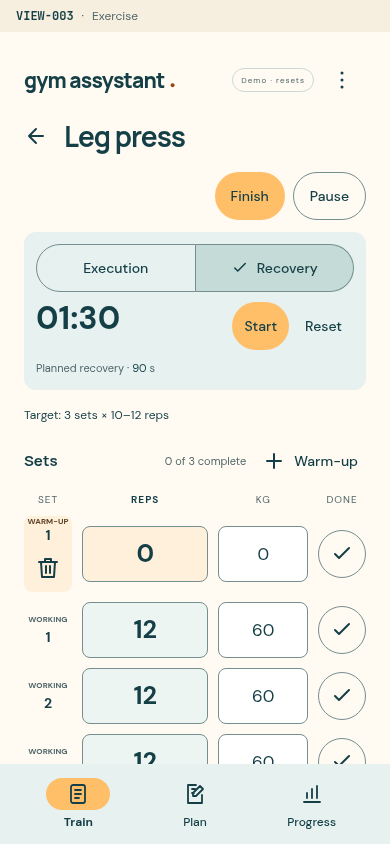
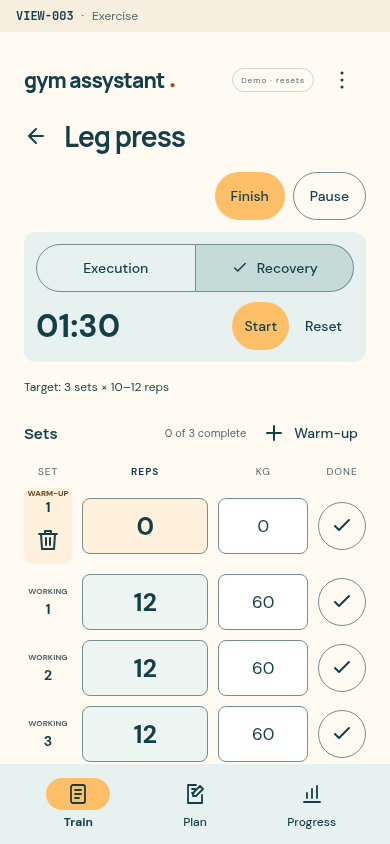
fix(mockup): align timer values and remove duplicate recovery text
Center VIEW-003 digits with timer actions and place completion feedback
below the row. Remove the planned-duration label while retaining prescribed
countdown/reset targets, specification traceability and current previews.

Refs: GYM-012, GYM-021
Validation: full Chromium workflows; both timer modes, expiry and narrow
vertical-center checks; planned duration/snapshot/reset behavior; visual
preview review and documentation links.

diff --git a/prototypes/web/index.html b/prototypes/web/index.html
@@ -20,7 +20,7 @@
 </section>
 <section id="session" data-mockup-ref="VIEW-002" data-mockup-name="Session" data-view hidden data-req="GYM-001 GYM-008 GYM-019"><div class="secondary-heading" data-req="GYM-025"><button class="md-icon-button" id="backProgram" aria-label="Back to Train calendar"><svg class="button-icon" viewBox="0 0 24 24" aria-hidden="true" focusable="false"><path d="M19 12H5m7-7-7 7 7 7"/></svg></button><h2 id="sessionName"></h2></div><p class="muted" id="sessionFocus"></p><div class="session-start" data-req="GYM-017"><div class="session-actions"><button id="startSession" class="md-button md-filled">Start session</button><button id="finishSession" class="md-button md-filled" aria-label="Finish session" hidden>Finish</button><button id="pauseSession" class="md-button md-outlined session-pause" aria-label="Pause session" hidden>Pause</button></div><p id="sessionStatus" class="field-help" role="status">Ready</p></div><p id="attendanceStatus" class="field-help" data-req="GYM-020"></p><div class="section-heading"><h3>Exercises</h3><span id="sessionCount"></span></div><div id="exerciseList"></div><p id="executionOrderStatus" class="sr-only" role="status" data-req="GYM-019"></p></section>
 <section id="exercise" data-mockup-ref="VIEW-003" data-mockup-name="Exercise" data-view hidden data-req="GYM-001 GYM-009"><div class="secondary-heading" data-req="GYM-009"><button class="md-icon-button" id="back" aria-label="Back to session"><svg class="button-icon" viewBox="0 0 24 24" aria-hidden="true" focusable="false"><path d="M19 12H5m7-7-7 7 7 7"/></svg></button><h2 id="exerciseName"></h2></div><div id="exerciseSessionActions" class="exercise-session-actions" data-req="GYM-009 GYM-017" hidden><span id="exerciseSessionStatus" class="field-help" hidden></span><button id="finishExerciseSession" class="md-button md-filled" aria-label="Finish session" hidden>Finish</button><button id="pauseExerciseSession" class="md-button md-outlined session-pause" aria-label="Pause session" hidden>Pause</button></div>
-<div class="timer-panel" data-req="GYM-012"><div class="timer-tabs" role="group" aria-label="Timer type"><button id="executionMode" class="md-segment" aria-pressed="true"><span class="segment-check"><svg class="button-icon" viewBox="0 0 24 24" aria-hidden="true" focusable="false"><path d="m5 12 4 4L19 6"/></svg></span>Execution</button><button id="recoveryMode" class="md-segment" aria-pressed="false"><span class="segment-check"><svg class="button-icon" viewBox="0 0 24 24" aria-hidden="true" focusable="false"><path d="m5 12 4 4L19 6"/></svg></span>Recovery</button></div><div class="timer-display"><output id="timerValue" aria-label="Execution elapsed time" aria-live="off">00:00</output><span id="timerStatus" class="sr-only" role="status">Ready</span></div><p id="recoverySettings" class="field-help" hidden>Planned recovery · <span id="recoverySeconds">90</span> s</p><div class="timer-actions"><button id="timerToggle" class="md-button md-filled">Start</button><button id="timerReset" class="md-button md-text">Reset</button></div><p class="field-help" id="timerContext">For this exercise · manual controls</p></div>
+<div class="timer-panel" data-req="GYM-012"><div class="timer-tabs" role="group" aria-label="Timer type"><button id="executionMode" class="md-segment" aria-pressed="true"><span class="segment-check"><svg class="button-icon" viewBox="0 0 24 24" aria-hidden="true" focusable="false"><path d="m5 12 4 4L19 6"/></svg></span>Execution</button><button id="recoveryMode" class="md-segment" aria-pressed="false"><span class="segment-check"><svg class="button-icon" viewBox="0 0 24 24" aria-hidden="true" focusable="false"><path d="m5 12 4 4L19 6"/></svg></span>Recovery</button></div><div class="timer-display"><output id="timerValue" aria-label="Execution elapsed time" aria-live="off">00:00</output></div><div class="timer-actions"><button id="timerToggle" class="md-button md-filled">Start</button><button id="timerReset" class="md-button md-text">Reset</button></div><span id="timerStatus" class="sr-only" role="status">Ready</span><p class="field-help" id="timerContext"></p></div>
 <p class="prescription" id="prescription" data-req="GYM-008"></p>
 <div class="section-heading set-heading" data-req="GYM-004 GYM-005 GYM-014"><h3>Sets</h3><span id="setCount" aria-live="polite"></span><button id="addWarmup" class="md-button md-text" aria-label="Add warm-up set"><svg class="button-icon" viewBox="0 0 24 24" aria-hidden="true" focusable="false"><path d="M12 5v14M5 12h14"/></svg>Warm-up</button></div>
 <div class="set-labels" data-req="GYM-004 GYM-014"><span>SET</span><span>REPS</span><span>KG</span><span>DONE</span></div><div id="sets" data-req="GYM-004 GYM-005 GYM-014"></div>

diff --git a/prototypes/web/css/style.css b/prototypes/web/css/style.css
@@ -314,14 +314,13 @@ h2, h3, .exercise-card strong { overflow-wrap: anywhere; }
 .exercise-session-actions .md-button { padding-inline: 16px; }
 .exercise-session-actions .field-help { margin: 0; }
 .timer-panel { display: grid; grid-template-columns: minmax(0, 1fr) auto; gap: 10px; padding: 12px; margin-bottom: 16px; }
-.timer-tabs, #recoverySettings, #timerContext { grid-column: 1 / -1; }
+.timer-tabs, #timerContext { grid-column: 1 / -1; }
 .timer-tabs { grid-row: 1; }
-.timer-display { grid-column: 1; grid-row: 2; margin: 0; flex-direction: column; align-items: flex-start; gap: 4px; }
+.timer-display { grid-column: 1; grid-row: 2; margin: 0; align-self: center; flex-direction: column; align-items: flex-start; gap: 0; }
 .timer-actions { grid-column: 2; grid-row: 2; align-items: center; gap: 4px; }
 .timer-actions .md-button { padding-inline: 12px; }
 #timerValue { font-size: 32px; }
-#timerStatus.field-help { font-size: 10px; margin: 0; }
-#recoverySettings { margin: 0; }
+#timerStatus.field-help { grid-column: 1 / -1; font-size: 10px; margin: 0; }
 #timerContext { margin: 0; }
 .prescription { padding: 0; background: none; border-radius: 0; margin: 6px 0 12px; }
 .set-heading { margin: 8px 0; }
@@ -432,7 +431,7 @@ header { position: relative; z-index: 2; padding-bottom: 0; min-height: 48px; }
 .secondary-heading h2 { min-width: 0; flex: 1; }
 .page-heading.secondary-heading { gap: 4px; }
 .page-heading.secondary-heading .save-plan { flex-shrink: 0; }
-.finished-review .set-row input:disabled, .finished-review .seat-input:disabled, .finished-review #recoverySeconds:disabled { border-color: transparent; background: transparent; }
+.finished-review .set-row input:disabled, .finished-review .seat-input:disabled { border-color: transparent; background: transparent; }
 .set-status { display: grid; place-items: center; width: 48px; height: 48px; color: var(--on-surface-variant); font-size: 20px; }
 .set-status.is-complete { color: var(--success); }
 input[type="number"] { appearance: textfield; -moz-appearance: textfield; }

diff --git a/prototypes/web/js/app.js b/prototypes/web/js/app.js
@@ -308,8 +308,6 @@ function renderTimer() {
   byId('timerToggle').hidden = session().state === 'finished';
   byId('timerReset').hidden = session().state === 'finished';
   byId('timerToggle').textContent = running ? 'Pause' : state[mode].elapsed > 0 && !(mode === 'recovery' && seconds === 0) ? 'Resume' : 'Start';
-  byId('recoverySettings').hidden = mode !== 'recovery';
-  byId('recoverySeconds').textContent = state.duration;
   ['execution', 'recovery'].forEach(item => byId(`${item}Mode`).setAttribute('aria-pressed', mode === item));
   const other = mode === 'execution' ? 'recovery' : 'execution';
   byId('timerContext').textContent = session().state === 'paused' ? 'Resume the session to run timers.' : state[other].startedAt !== null ? `${other === 'execution' ? 'Execution' : 'Recovery'} is also running.` : '';

diff --git a/docs/product/traceability.md b/docs/product/traceability.md
@@ -1,8 +1,8 @@
 # Bidirectional traceability
 
-Revision 25. All Android delivery is **not started**. “Covered” below means the disposable mockup meets the acceptance criteria in [spec.md](spec.md), not that the Android product is implemented. Search a requirement ID in source comments or `data-req` attributes to trace code back to scope.
+Revision 26. All Android delivery is **not started**. “Covered” below means the disposable mockup meets the acceptance criteria in [spec.md](spec.md), not that the Android product is implemented. Search a requirement ID in source comments or `data-req` attributes to trace code back to scope.
 
-Revision 25 audits all screens and shared controls under GYM-025, correcting read-only text alignment/wrapping, popup headings and Progress card fit. Revision 24 removes the metric-button checkmark in VIEW-007 under GYM-015, retaining selected fill, heavier text, underline and pressed semantics. Revision 23 adds continuous inspection and explicit temporal zoom/pan to VIEW-007 under GYM-010. Revision 22 refines dropdown presentation under GYM-025 with native-select styling and phone-contained pickers. Revision 21 removes activation shortcuts from VIEW-004 under GYM-026 and requires plan review before confirmed activation. Revision 20 refines the GYM-009 exercise heading in VIEW-003: the exercise name sits beside Back, with session actions and timers below. Revision 19 improves the GYM-010 plot presentation in VIEW-007; the labelled plot, point inspection and dense-date panning are verified in the mockup. Revision 18 fixed the selected-day card dimensions in VIEW-001 under GYM-016. Revision 17 introduced external view references, planned recovery, drag-handle sorting and deliberate plan changes. The reference strip is mockup presentation only; native delivery remains not started.
+Revision 26 aligns VIEW-003 timer digits/actions and removes duplicate planned-recovery text under GYM-012/GYM-021. Revision 25 audits all screens and shared controls under GYM-025, correcting read-only text alignment/wrapping, popup headings and Progress card fit. Revision 24 removes the metric-button checkmark in VIEW-007 under GYM-015, retaining selected fill, heavier text, underline and pressed semantics. Revision 23 adds continuous inspection and explicit temporal zoom/pan to VIEW-007 under GYM-010. Revision 22 refines dropdown presentation under GYM-025 with native-select styling and phone-contained pickers. Revision 21 removes activation shortcuts from VIEW-004 under GYM-026 and requires plan review before confirmed activation. Revision 20 refines the GYM-009 exercise heading in VIEW-003: the exercise name sits beside Back, with session actions and timers below. Revision 19 improves the GYM-010 plot presentation in VIEW-007; the labelled plot, point inspection and dense-date panning are verified in the mockup. Revision 18 fixed the selected-day card dimensions in VIEW-001 under GYM-016. Revision 17 introduced external view references, planned recovery, drag-handle sorting and deliberate plan changes. The reference strip is mockup presentation only; native delivery remains not started.
 
 | Requirement | Source anchors / artifact | Verification | Mockup state |
 | --- | --- | --- | --- |
@@ -17,7 +17,7 @@ Revision 25 audits all screens and shared controls under GYM-025, correcting rea
 | GYM-009 | `index.html`: shared Back/name heading and exercise order; `app.js`: conditional lifecycle row; CSS: heading wrapping, set widths/font sizes | Browser: heading aligned beside Back before timers at 320/390/430px, Ready omits action row, reps first, set log before secondary video; screenshot review | Covered |
 | GYM-010 | `metrics.js`: `series`, `countSets`; `data.js`: historical records/context; `app.js`: `renderProgress`, `selectProgressObservation`, exploration state and chart pointer/keyboard/zoom handlers; `charts.js`: `layout`, `render`; `index.html`: progress/readout/plot; CSS: axes, point targets and internal timeline | Logic: exact expected metrics, comparison filters, gaps, warm-up exclusion, elapsed-date positions, zero-based scale and broken segments; browser: mouse/touch continuous inspection, cancellation, temporal zoom limits/reset and lane panning, keyboard endpoints, retained date/zoom/window across metrics/navigation, exercise reset, fractional values, null/empty history, dense panning/non-overlapping targets, light/dark narrow layouts and unchanged history/attendance/exports | Fictional historical statistics covered; real persistence deferred |
 | GYM-011 | [progression-research.md](../research/progression-research.md) | Literature review: eight original studies/reviews with limitations and proposed/included metrics | Research delivered |
-| GYM-012 | `plan.js`: prescription duration validation/snapshot; `app.js`: planned recovery field and occurrence timer creation; `timers.js`: timer state/actions; `app.js`: `renderTimer`, interval/actions; `index.html`: timer panel | Logic: pause/resume/reset, expiry/background catch-up, independence, planned bounds/legacy default, snapshot retention; browser: saved draft targets, protected versus untouched workouts, read-only execution duration, both timer modes/completion | Covered; native background/alerts deferred |
+| GYM-012 | `plan.js`: prescription duration validation/snapshot; `app.js`: planned recovery field and occurrence timer creation; `timers.js`: timer state/actions; `app.js`: `renderTimer`, interval/actions; `index.html`: timer panel | Logic: pause/resume/reset, expiry/background catch-up, independence, planned bounds/legacy default, snapshot retention; browser: saved draft targets, protected versus untouched workouts, initial countdown/Reset reflect saved recovery without a duplicate label, digit/action vertical alignment including completion, both timer modes/completion | Covered; native background/alerts deferred |
 | GYM-013 | [branding-research.md](../research/branding-research.md); wordmarks/copy in `index.html`, theme in `style.css`, timer copy in `app.js` | Five exercise/motivation sources plus three color/emotion sources; screenshot/copy and color-contrast review | Brand direction delivered and applied |
 | GYM-014 | `app.js`: `setRow`, `renderSets`, add/remove/update/toggle warmups; CSS: labeled warm-up rows; `metrics.js`: exclusion | Browser: shared list, labels, retained reps/weight, add/remove, count isolation; logic: warmups excluded | Covered |
 | GYM-015 | [android-ui.md](../design/android-ui.md); CSS: `.md-button`, emphasis variants, `.md-icon-button`, `.md-segment`, state layers, target/nav rules; `index.html`: button families, timer checks, text-only metric selectors, bottom nav; `app.js`: `buttonIcon`, generated actions, `showView` | Official Android button/icon/segmented/accessibility sources; screenshot review: emphasis, consistent labels/icons, timer checks, Progress selected fill/heavier label/underline, state layers; browser: navigation stays at bottom, interactive targets ≥48px | Material-style browser approximation; native UI deferred |
@@ -46,7 +46,7 @@ JavaScript filenames above are under `prototypes/web/js/`; `index.html` is under
 | Shared set list, prominent reps, kg validation, done controls/counts | GYM-004, GYM-005, GYM-009 |
 | Warm-up labels/tint, add/remove controls, separate data semantics | GYM-014 |
 | Metric selector, labelled/tappable dated plot, scale/segments, selection readout/guide, continuous inspection, temporal zoom/reset and lane panning, retained exploration, counts and context/gaps | GYM-010 |
-| Planned recovery seconds, read-only workout target, execution/recovery selectors and clock actions | GYM-012, GYM-018, GYM-024 |
+| Planned recovery seconds, initial countdown/Reset target without duplicate label, aligned timer value/actions and completion feedback, execution/recovery selectors and clock actions | GYM-012, GYM-018, GYM-024 |
 | Wordmark, promise, copy, palette and typography | GYM-007, GYM-013 |
 | Responsive shell, phone-bounded modal surfaces/scrims, resize/scroll alignment, keyboard focus/dismissal and external mockup view references | GYM-006 |
 | Dropdown field/picker/options, native selection and phone-bound placement | GYM-025, GYM-006, GYM-015 |
@@ -123,3 +123,5 @@ Revision 23, 2026-10-13: refined GYM-010 before adding continuous observation in
 Revision 24, 2026-10-13: refined GYM-015 before removing decorative checks from VIEW-007 metric buttons. Centered labels retain selected tonal fill, heavier text, an underline and aria-pressed semantics. Timer selector checks remain unchanged. The Chromium suite passed for metric selection, chart exploration, keyboard navigation, themes, narrow targets and existing workflows. Reviewed light/dark Progress screenshots and refreshed affected metric/zoom/gap/empty/dropdown previews. This is presentation only; metric/data behavior and native Android status are unchanged.
 
 Revision 25, 2026-10-13: refined GYM-025 before whole-app graphical corrections. Before/after walkthroughs each covered 67 light/dark screen/state captures across all 12 views, narrow and desktop presentations, with no undersized standard controls. A fresh-context independent screenshot/source review supplied narrow prescription separator/caption findings. Added wrapping aligned readonly value presentation with native edit restoration, shared 8px editable field corners, 12px centered/aligned prescription captions, unbroken reps/recovery groups, centered popup heading rows and a complete Progress card on entry without reducing plot/target sizes. The full Chromium suite passed, including new long readonly names/focus at 320/390/430px, retained values/Edit restoration, popup heading alignment and complete chart-card bounds; existing calculations, exports, workflows and gestures remain covered. Reviewed final captures, settled transitions before screenshot delivery and refreshed affected previews. Native Android delivery and durable data semantics remain unchanged.
+
+Revision 26, 2026-10-13: refined GYM-012/GYM-021 before centering timer digits/actions and removing VIEW-003's duplicate recovery-duration line. Completion feedback now sits below the time/action row. The full Chromium suite passed, including vertical-center checks for both modes, expiry and 320/390/430px, no Planned recovery text, initial/reset countdown values, saved 120/45-second targets, protected running recovery and all existing timer/lifecycle workflows. Reviewed execution/recovery/finished and light/dark previews and refreshed affected exercise/video captures. Timing arithmetic, plan prescriptions, snapshots and exports are unchanged; native delivery remains not started.

diff --git a/docs/product/spec.md b/docs/product/spec.md
@@ -1,6 +1,6 @@
 # gym assystant — draft specification
 
-Status: revision 25, for exploration. Only a disposable browser mockup is authorized. Android implementation starts after the user decides the scope. Mockup coverage does not mean a production requirement is implemented.
+Status: revision 26, for exploration. Only a disposable browser mockup is authorized. Android implementation starts after the user decides the scope. Mockup coverage does not mean a production requirement is implemented.
 
 ## Purpose
 
@@ -21,7 +21,7 @@ Follow a training program made of multiple training sessions. During each sessio
 | GYM-009 | Prioritize performance logging. | VIEW-003 starts with the exercise name beside the Back arrow in the same heading row. Session status/actions, when applicable, occupy a separate row below the heading; Ready has no empty action row. Compact execution/recovery timers follow at the top, then the prescribed target, one combined warm-up/working-set list with reps/weight controls and an inline Add warm-up action, machine setup, and a small video button. The exercise name appears only once and wraps within the phone width; Back retains its 48px touch target. Set controls are visible before video access at mobile width. |
 | GYM-010 | Show training performance statistics. | A Progress view lets the user select an exercise and metric. Lead with dated history for best reps at a fixed weight, heaviest weight at exactly 10 reps, and volume load; also retain completed working-set count for the displayed period in “How to compare”. Values are computed from explicit fictional completed logs, not hardcoded chart labels. No comparable data means a gap, not zero. Use a larger trend plot with a labelled zero-based value axis, units and readable actual dates. Horizontal positions reflect elapsed civil days rather than equal spacing for irregular sessions. Connect only consecutive comparable observations; leave missing data as a visible gap. Tap a session point to show its exact value and full date in the card; give points 48px non-overlapping targets, use internal horizontal panning for closely spaced dates while keeping the value axis visible, and provide keyboard access (Enter/Space, left/right navigation). Selection has a visible ring, vertical inspection guide and pressed semantics. Drag/swipe across the plot to inspect the nearest recorded date continuously, without inventing intermediate observations; vertical scrolling outside a horizontal inspection gesture remains usable. A separate date/timeline lane permits horizontal drag/swipe panning. Provide 48px Zoom in, Zoom out and Reset view controls for temporal detail, with bounded zoom, an accessible zoom status and disabled controls at their limits; Reset restores the default scale and brings the selected observation into view. Zoom changes horizontal time scale only; the zero-based value axis and metric computations stay unchanged. Keyboard Left/Right, Home/End select observations and reveal them; Enter/Space and existing point taps remain supported. Switching metrics and returning to Progress retain selection and horizontal zoom/pan for the same exercise; choosing another exercise resets its exploration view. Empty histories hide exploration controls, and single observations disable zoom. Pointer cancellation ends the gesture cleanly, and navigation must not leave captured pointers or handlers behind. Show explicit empty/unavailable states instead of a blank plot or invented zero. Keep the entire plot visible on entry at 390×844; do not require hovering or a popup. Details and comparison rules are available in “How to compare”. |
 | GYM-011 | Research progression metrics before finalizing analytics. | A linked literature brief distinguishes outcomes, workload, and consistency; cites original research and evidence syntheses; records limitations, formulas, and proposed versus included metrics. Research recommendations do not automatically authorize features. |
-| GYM-012 | Time execution and recovery separately. | Execution counts up; recovery counts down from the selected planned exercise's recovery duration (whole seconds, 1–3600; default 90). Set this duration in Plan → plan session → exercise prescription and save it with the plan; the workout displays it read-only. New or untouched previews use the saved prescription, while protected dated workouts retain their original duration through later edits, plan switching and exercise reordering. Each has start/resume, pause, and reset. Recovery stops at zero and announces completion. Timers use elapsed clock time, retain independent state when switching modes/views, and belong to the selected exercise occurrence. Reload resets them. No automatic set completion or automatic transition. |
+| GYM-012 | Time execution and recovery separately. | Execution counts up; recovery counts down from the selected planned exercise's recovery duration (whole seconds, 1–3600; default 90). Set this duration in Plan → plan session → exercise prescription and save it with the plan; the workout uses it as the initial countdown and Reset target, without a separate Planned recovery/duration label or editable duration field. VIEW-003 aligns the time value vertically with its Start/Pause/Resume and Reset controls in both modes; meaningful completion/session messages sit below that row so they do not shift the time value. New or untouched previews use the saved prescription, while protected dated workouts retain their original duration through later edits, plan switching and exercise reordering. Each has start/resume, pause, and reset. Recovery stops at zero and announces completion. Timers use elapsed clock time, retain independent state when switching modes/views, and belong to the selected exercise occurrence. Reload resets them. No automatic set completion or automatic transition. |
 | GYM-013 | Use an inviting, evidence-informed brand. | Retain the exact name gym assystant. Use the promise “Your pace. Your progress.”, clear next actions, personal progress feedback, and neutral language for rest or unfinished sets. Apply the sunrise-amber, deep-teal, and ivory palette, wordmark, and tone documented in branding-research.md. Warm accents emphasize action, calmer teal surfaces support logging/recovery, and text/control contrast remains readable. No shame, body-transformation promises, streak pressure, or unsupported claims that colors increase exercise adherence. |
 | GYM-014 | Track warm-up reps alongside working sets. | Add/remove warm-up sets; edit nonnegative whole-number reps and nonnegative finite kg; mark each done/undone. Show warm-up and working sets together in one list, with a visible type label on every row. Keep their data distinct, retain them when navigating, and exclude warm-ups from working-set completion, records, and all GYM-010 metrics. |
 | GYM-015 | Follow Android Material 3 UI conventions. | Use shared Material button styles by emphasis: filled for workout opening, Start/Resume/Finish, timer Start/Pause/Resume, and Save; filled tonal for Plan Add actions; outlined for Pause and for Finish while Paused; text for the inline warm-up action, Today, Reset, and secondary video access. Use standard circular icon Back controls on secondary screens. Use circular icon buttons with consistent 24-pixel SVG icons and accessible action labels for week navigation, 48px exercise drag handles, template removal, and set completion (selected fill plus pressed state). Labels are centered, sentence case, and 14 pixels with medium weight; regular actions have consistent padding and full rounding. Hover/pressed/focus/disabled states are visible, and disabled controls remain inactive. Use joined segmented selectors with tonal selected fill. Timer selectors retain their check icon; VIEW-007 metric buttons use centered text without a checkmark, with a heavier label and inset underline for the selected metric as well as aria-pressed semantics. Use rounded cards and dialog, an icon-and-label bottom navigation bar with a selected indicator, and at least 48 × 48 CSS-pixel touch areas for standard controls in the phone mockup. Calendar date cells adapt their width to fit seven columns, retaining at least 48 pixels of height. Keep navigation outside the scrolling content. Real Android delivery must use dp and native Material components. Document official guidance in android-ui.md. |

diff --git a/docs/design/android-ui.md b/docs/design/android-ui.md
@@ -59,3 +59,5 @@ The browser mockup uses the existing native `select` elements with progressive `
 Revision 23 makes VIEW-007's dated plot explorable through continuous horizontal inspection, a vertical guide, temporal zoom controls and a separate date lane for panning. The readout identifies the nearest actual recorded date/value, including unavailable observations; it never interpolates training results. Zoom in/out and Reset view keep 48px targets and bounded states. The zero-based value axis remains fixed, and keyboard Home/End joins existing observation navigation. Exploration is retained across metrics/navigation for the same exercise and resets when choosing a different exercise. Vertical page scrolling remains available; cancelled gestures release their pointer state.
 
 Revision 25 reviews all views and shared control families in both themes. Read-only text/select values now use wrapping text aligned with their labels, while native disabled fields retain their values for edit restoration. Editable text/number/select fields share the 8px small corner token. Prescription captions use centered 12px text with aligned input rows; summary separators stay with their reps/recovery phrase. Popup heading rows remove residual title margins so Close aligns with the title. Compact Progress spacing and concise guidance fit the complete card above bottom navigation at 390×844, retaining the 180px plot and 48px controls. Filled/tonal/outlined/text action roles, timer checks, text-only metric selection, static finished status and the fitted-calendar exception remain intentional distinctions.
+
+Revision 26 centers the VIEW-003 time value vertically with its action buttons. Meaningful completion feedback occupies a separate full-width row, preventing it from shifting the digits. Removed the duplicate Planned recovery duration line: the saved plan still supplies the initial countdown and Reset target. Both timer modes retain their top position, selected-state treatment and 48px controls.

diff --git a/docs/reviews/interface-review.md b/docs/reviews/interface-review.md
@@ -181,3 +181,9 @@ Corrected the independent review's narrow separator/caption findings. Screenshot
 Representative results: [read-only plan](previews/plan.png), [narrow prescriptions](previews/disclosures-template.png), [read-only session](previews/plan-session-readonly.png), [complete Progress card](previews/progress.png), [finished notes](previews/finished-log.png) and [aligned video heading](previews/video.png).
 
 Archived comparisons: [Progress before](history/consistency-before-progress.png) → [complete card after](previews/progress.png); [plan value inset before](history/consistency-before-plan.png) → [aligned value after](previews/plan.png); [narrow prescription captions before](history/consistency-before-prescriptions.png) → [legible aligned captions after](previews/disclosures-template.png).
+
+## Revision 26: aligned timer row without repeated recovery duration
+
+[VIEW-003](previews/exercise.png) now vertically centers the time value with Start/Pause/Resume and Reset. Moved completion feedback out of the digit container into its own row, so expired recovery messages cannot alter that alignment. Removed Planned recovery · 90 s from the [recovery view](previews/recovery.png); the initial countdown and Reset continue to use the prescribed duration, with no workout duration editor.
+
+Reviewed execution/recovery and [finished review](previews/finished-log.png), both themes and narrow captures; refreshed the affected exercise and underlying video previews. Chromium checks cover digit/action centers in both modes, after expiry and at 320/390/430px, removal of duplicate text, saved 120/45-second targets, protected workout duration, completion announcements, reset and existing session/timer workflows. No timer arithmetic or data contract changed.
